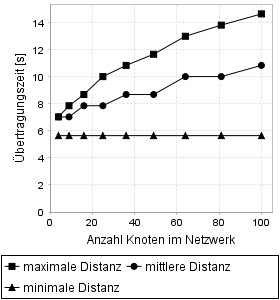
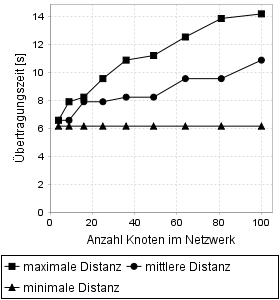
do some simulations

diff --git a/src/OLSR/OlsrEvaluationUnit.java b/src/OLSR/OlsrEvaluationUnit.java
@@ -12,6 +12,7 @@ import org.jfree.chart.renderer.xy.XYLineAndShapeRenderer;
 import org.jfree.data.xy.DefaultXYDataset;
 
 import AODVM.AodvmSimulator;
+import DSDV.DsdvSimulator;
 import EADV.EadvSimulator;
 import Flooding.FloodingSimulator;
 import Simulator.EvaluationUnit;
@@ -361,6 +362,51 @@ public class OlsrEvaluationUnit extends EvaluationUnit {
 			// TODO Auto-generated catch block
 			e.printStackTrace();
 		}
+	}
+	
+	public void evaluateNetworkLivetimeWithoutPayloadMessageTransmission() {
+		System.out.println("\nOLSR Lifetime analysis");
+
+		OlsrSimulator simulator = new OlsrSimulator();
+
+		double numberOfNodes[] = new double[networkWidth.length];
+
+		double networkLifetime[][] = new double[2][networkWidth.length];
+
+		for (int i = 0; i < networkWidth.length; i++) {
+			numberOfNodes[i] = Math.pow(networkWidth[i], 2);
+
+			System.out.println("OLSR - Lifetimeanalysis: " + numberOfNodes[i]);
+			networkLifetime[0][i] = numberOfNodes[i];
+			networkLifetime[1][i] = simulator.lifetimeAnalysisWithoutPayloadMessageTransmission(networkWidth[i]) / 1000.0 / 60.0;
+		}
+
+		// Network Lifetime
+		DefaultXYDataset dataset = new DefaultXYDataset();
+		dataset.addSeries("Lebenszeit", networkLifetime);
+		// dataset.addSeries("Knoten Sendet alle 20 m", sendTime_1200);
+
+		XYLineAndShapeRenderer line = new XYLineAndShapeRenderer();
+
+		NumberAxis xAxis = new NumberAxis("Anzahl Knoten im Netzwerk");
+		NumberAxis yAxis = new NumberAxis("Netzwerk Lebenszeit [Minuten]");
+		XYPlot plot = new XYPlot(dataset, xAxis, yAxis, line);
+		plot.getRenderer().setSeriesPaint(0, Color.BLACK);
+
+		JFreeChart chart = new JFreeChart(plot);
+
+		chart.getPlot().setBackgroundPaint(Color.WHITE);
+		chart.setBackgroundPaint(Color.WHITE);
+		chart.removeLegend();
+
+		String filename = "Output/OLSR/OLSR_Lebenszeitanalyse_OhnePayloadmessages.png";
+		try {
+			ChartUtilities.saveChartAsPNG(new File(filename), chart, CHART_WIDTH, CHART_HIGHT);
+		} catch (IOException e) {
+			// TODO Auto-generated catch block
+			e.printStackTrace();
+		}
+
 	}
 
 	public void evaluateNetworkLivetimeStaticSendBehaviorOneDestination(int payloadSize) {

diff --git a/src/Simulator/Main.java b/src/Simulator/Main.java
@@ -35,7 +35,7 @@ public class Main {
 		//aodvmEvaluationUnit.evaluateCostAnalysis();
 		//aodvmEvaluationUnit.evaluateNetworkLivetimeStaticSendBehaviorOneDestination(80);
 		//aodvmEvaluationUnit.evaluateNetworkLivetimeRandomSorceAndDest(80, 10);
-		//aodvmEvaluationUnit.evaluateNetworkPartitioningAnalysis(8);
+		//aodvmEvaluationUnit.evaluateNetworkPartitioningAnalysis(80);
 		
 		DsdvEvaluationUnit dsdvEvaluationUnit = new DsdvEvaluationUnit();
 		//dsdvEvaluationUnit.evaluateSpeedAnalysisWhenNetworkStarts();
@@ -43,13 +43,14 @@ public class Main {
 		//dsdvEvaluationUnit.evaluateCostAnalysis();
 		//dsdvEvaluationUnit.evaluateNetworkLivetimeWithoutPayloadMessageTransmission();
 		//dsdvEvaluationUnit.evaluateNetworkLivetimeStaticSendBehaviorOneDestination(80);
-		dsdvEvaluationUnit.evaluateNetworkLivetimeRandomSorceAndDest(80, 10);
+		//dsdvEvaluationUnit.evaluateNetworkLivetimeRandomSorceAndDest(80, 10);
 		//dsdvEvaluationUnit.evaluateNetworkPartitioningAnalysis(80);
 		//dsdvEvaluationUnit.evaluateNetworkPartioningAnaylsisRandomSorceAndDest(80, 10);
 		
 		OlsrEvaluationUnit olsrEvaluationUnit = new OlsrEvaluationUnit();
 		//olsrEvaluationUnit.evaluateSpeedAnalysis();
 		//olsrEvaluationUnit.evaluateCostAnalysis();
+		//olsrEvaluationUnit.evaluateNetworkLivetimeWithoutPayloadMessageTransmission();
 		//olsrEvaluationUnit.evaluateNetworkLivetimeStaticSendBehaviorOneDestination(80);
 		//olsrEvaluationUnit.evaluateNetworkLivetimeRandomSorceAndDest(80, 10);
 		//olsrEvaluationUnit.evaluateNetworkPartitioningAnalysisOneDestination(80);
@@ -59,8 +60,8 @@ public class Main {
 		//eadvEvaluationUnit.evaluateSpeedAnalysis();
 		//eadvEvaluationUnit.evaluateSpeedAnalysisWhenNetworkStarts();
 		//eadvEvaluationUnit.evaluateCostAnalysis();
-		//eadvEvaluationUnit.evaluateNetworkLivetimeStaticSendBehaviorOneDestination(80);
-		//eadvEvaluationUnit.evaluateNetworkPartitioningAnalysis(8);
+		eadvEvaluationUnit.evaluateNetworkLivetimeStaticSendBehaviorOneDestination(80);
+		eadvEvaluationUnit.evaluateNetworkPartitioningAnalysis(80);
 	}
 }
 

diff --git a/src/OLSR/OlsrSimulator.java b/src/OLSR/OlsrSimulator.java
@@ -1,6 +1,7 @@
 package OLSR;
 
 
+import DSDV.DsdvNetworkGraph;
 import Flooding.FloodingNetworkGraph;
 import SimulationNetwork.NetworkNode;
 import SimulationNetwork.PayloadMessage;
@@ -157,6 +158,44 @@ public class OlsrSimulator extends Simulator{
 	 */
 	public long getConsumedEnergyForControlMsg() {
 		return consumedEnergyForControlMsg;
+	}
+	
+public double lifetimeAnalysisWithoutPayloadMessageTransmission(int networkWidth) {
+		
+		OlsrNetworkGraph graph = new OlsrNetworkGraph(networkWidth);
+		
+		networkLifetime = 0;
+		int simulatedHours = 0;
+		int simulatedDays = 0;
+
+		this.graph = graph;
+		NetworkNode networkNodes[] = graph.getNetworkNodes();
+		for (int id = 0; id < networkNodes.length; id++) {
+			networkNodes[id].setSimulator(this);
+		}
+		
+		do {
+			// performe network nodes
+			for (int id = 0; id < networkNodes.length; id++) {
+				networkNodes[id].performAction(NODE_EXECUTION_TIME);
+			}
+
+			networkLifetime += NODE_EXECUTION_TIME;
+
+			if (networkLifetime % (3600000) == 0) {
+				simulatedHours++;
+				System.out.println("Simulated hours: " + simulatedHours);
+			}
+
+			if (networkLifetime % (86400000) == 0) {
+				simulatedDays++;
+				System.out.println("Simulated days: " + simulatedDays);
+			}
+
+		} while (allNodesAlive(networkNodes));
+
+
+		return networkLifetime;
 	}
 
 	public long lifetimeAnalysisStaticSendBehaviorOneDestination(int networkWidth, int transmissionPeriod,int payloadSize){

diff --git a/src/SimulationNetwork/Simulator.java b/src/SimulationNetwork/Simulator.java
@@ -111,7 +111,7 @@ public abstract class Simulator {
 			// Check if there is any transmission process in the network
 			transmissionInNetworkDetected = false;
 			for (int id = 0; id < networkNodes.length; id++) {
-				if (id != destinationNodeId) {
+
 					if (networkNodes[id].getOutgoingMessage() != null) {
 						transmissionInNetworkDetected = true;
 						break;
@@ -127,7 +127,6 @@ public abstract class Simulator {
 						transmissionInNetworkDetected = true;
 						break;
 					}
-				}
 			}
 
 		} while (transmissionInNetworkDetected

diff --git a/src/EADV/EadvSimulator.java b/src/EADV/EadvSimulator.java
@@ -152,6 +152,11 @@ public class EadvSimulator extends Simulator{
 		EadvNetworkGraph graph = new EadvNetworkGraph(networkWidth);
 		NetworkNode networkNodes[] = graph.getNetworkNodes();
 		
+
+		for (int id = 0; id < networkNodes.length; id++) {
+			networkNodes[id].setSimulator(this);
+		}
+		
 		((EadvNetworkNode)networkNodes[networkWidth / 2]).setNodeIsDataSink(true);
 		//start initial broadcast
 		((EadvNetworkNode)networkNodes[networkWidth / 2]).sendInitialBroadcast();
